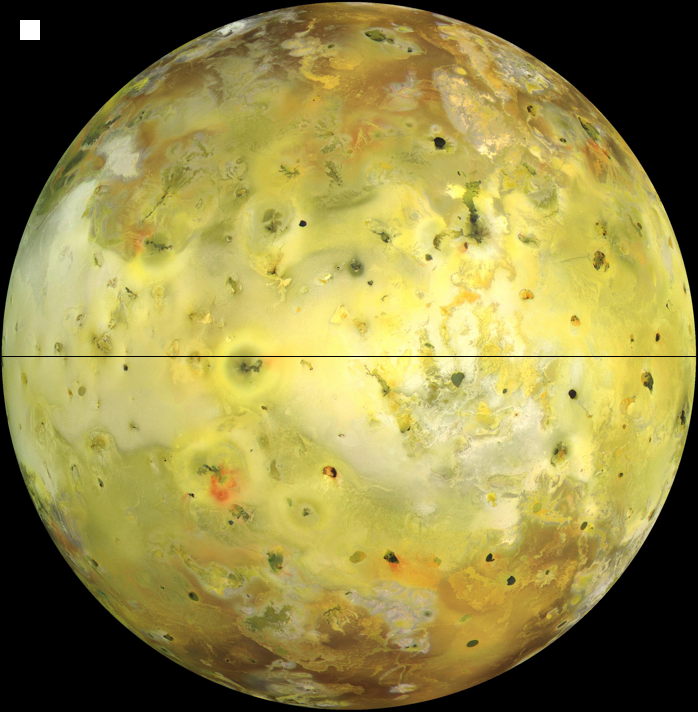
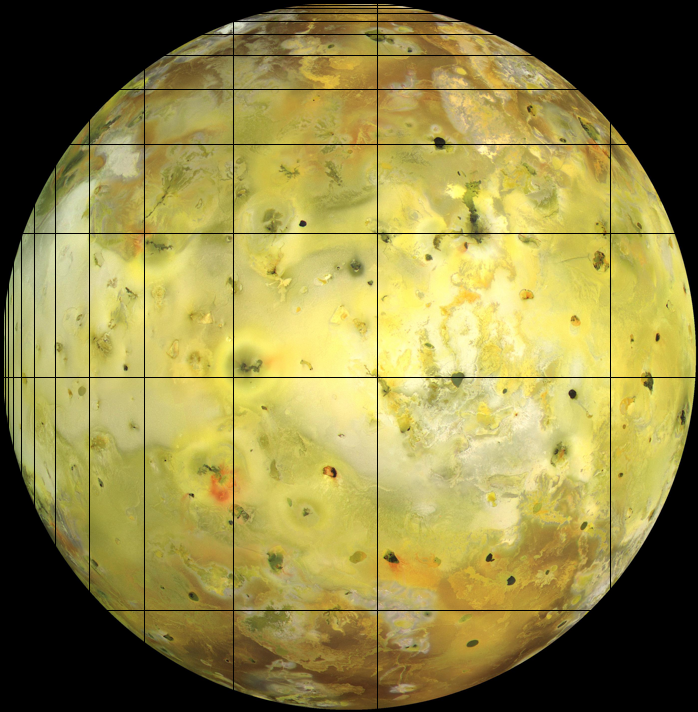
before pod 5b

Changed region(s): [[0.0, 0.4017, 0.0602, 0.5871], [0.3911, 0.0, 0.6017, 0.0309], [0.0301, 0.0309, 0.0602, 0.0618]]

diff --git a/module-3/pixels.py b/module-3/pixels.py
@@ -6,8 +6,21 @@ from matplotlib.pyplot import imread, imsave
 I = imread("module-3/clean_io_small.png")     # rows, columns, 3 colour channels; values 0.0 to 1.0
 
 J = I.copy()  # make a copy of the image array
-J[20:40, 20:40, :] = 1.0  # set a square of pixels to white
-J[356, :, :] = 0.0  # set a line of pixels to black
+
+n = 712
+def fib(n):
+    """Returns the Fibonacci sequence up to n.
+    (I wanted to use the fibonacci sequence to generate a pattern for the image, but I didn't get that far.)"""
+    a, b = 0, 1
+    result = []
+    while a < n:
+        result.append(a)
+        a, b = b, a + b
+    return result
+
+J[:, fib(n), :] = 0.0  # set a vertical line of pixels to black at column 349
+J[fib(n), :, :] = 0.0  # set a line of pixels to black at Fibonacci indices
+
 imsave("module-3/pixels_out.png", J)  # save the modified image
 
 if __name__ == "__main__":
@@ -15,3 +28,4 @@ if __name__ == "__main__":
     print(I.size)
     print(I[356,349])  # pixel at middle (row 356, column 349)
     print(I[0,0])  # pixel at top left
+    print(fib(n))  # print the Fibonacci sequence up to n
